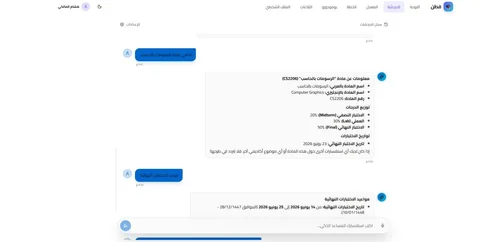
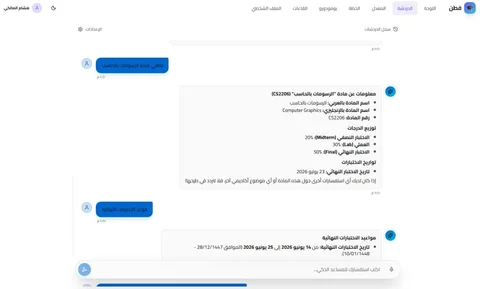
Make every picture fill its frame, without cropping content
The image pipeline now trims each screenshot's empty margins: edge rows and
columns in which every pixel is the background, keeping 6px of each, and it
prints every crop box. Old outputs are cleared first, so a new width never
leaves a stale file in the srcset.

In "Hand me a problem" each frame takes its picture's own ratio (a table or
list frame has one in the data). Side by side, the widths follow the
ratios, so a row shares one height and every picture fills its frame; one
stage at a time, a picture keeps its own ratio. The Faten pair in the case
block works the same way. Narrow list frames set closer so their items fit.

diff --git a/src/data/projects.js b/src/data/projects.js
@@ -14,8 +14,8 @@ const edemaCams = [
   { id: 'resnet50', label: 'ResNet50', probability: '100.0%' },
   { id: 'convnext-tiny', label: 'ConvNeXt-Tiny', probability: '89.5%' },
 ].map((m) => ({ ...m, image: natural(`edema-cam-${m.id}`, EDEMA_RATIO) }))
-const edemaReport = screenshot('pulmonary-edema', 1, 882 / 1589) // sidebar trimmed by the pipeline
-const edemaVotes = screenshot('pulmonary-edema', 2, 883 / 1897)
+const edemaReport = screenshot('pulmonary-edema', 1, 854 / 1514) // sidebar and empty margins trimmed by the pipeline
+const edemaVotes = screenshot('pulmonary-edema', 2, 883 / 1881)
 const edemaVotesFrame = {
   kind: 'image',
   image: edemaVotes,
@@ -25,19 +25,19 @@ const edemaVotesFrame = {
 
 const telcoOverview = {
   kind: 'image',
-  image: screenshot('telco-churn', 1, 708 / 1270),
+  image: screenshot('telco-churn', 1, 684 / 1252),
   alt: 'Power BI overview page: 26.5% churn rate, 1,869 customers lost, $139K monthly revenue lost',
   fill: '#f2f2f0',
 }
 const telcoDrivers = {
   kind: 'image',
-  image: screenshot('telco-churn', 2, 712 / 1275),
+  image: screenshot('telco-churn', 2, 694 / 1254),
   alt: 'Power BI page “What drives churn”: churn rate by contract and internet service, by payment method and contract, by number of services, and with and without tech support',
   fill: '#f2f2f0',
 }
 const telcoActions = {
   kind: 'image',
-  image: screenshot('telco-churn', 5, 711 / 1262),
+  image: screenshot('telco-churn', 5, 693 / 1253),
   fill: '#f2f2f0',
   alt: 'Power BI page “Where to act first”: lost value by contract and internet service, churners by churn-score band, 88.9% of lost value marked as actionable, lost value by payment method, and the three actions in priority order',
 }
@@ -52,7 +52,7 @@ const fatenDashboard = {
 // faten-3 and faten-4 screenshots.
 const fatenChat = {
   kind: 'image',
-  image: screenshot('faten', 3, 646 / 1280),
+  image: screenshot('faten', 3, 646 / 1072),
   alt: 'Faten’s chat in Arabic: the agent answers a question about a course with its grading breakdown and final exam dates',
   fill: '#ffffff',
 }
@@ -80,8 +80,10 @@ export const STAGES = [
 //   { kind: 'image', image: screenshot(...) | natural(...), alt, fill }
 // Images are always shown whole; `fill` is the colour of the image's own edge,
 // used wherever a frame is wider or taller than the picture.
-//   { kind: 'table', columns: [...], optional?, optionalNarrow?, optionalTiny?, rows: [[...], ...], foot }
-//   { kind: 'list', title, items: [...], foot, code?, rtl? }
+//   { kind: 'table', columns: [...], optional?, optionalNarrow?, optionalTiny?, rows: [[...], ...], foot, ratio? }
+//   { kind: 'list', title, items: [...], foot, code?, rtl?, ratio? }
+// `ratio` (width / height, default 1.5) is a table's or list's frame shape in
+// "Hand me a problem", where a picture's frame takes the picture's own.
 // `map` holds the short labels for the skill table; `plate` sets the case
 // block: `layout` 'zigzag' (each figure beside part of the details),
 // 'panel' (the `reveal` slider beside the details) or 'pair' (two figures
@@ -116,6 +118,7 @@ export const projects = [
           'Cleaned 7,043 customer records in Excel and Power Query. Three target-leakage columns (churn score, churn reason, churn label) were removed, and CLTV was tested in and out of the model and dropped.',
         frame: {
           kind: 'table',
+          ratio: 1.35, // tall enough for its five rows beside the two charts
           label: 'First rows of the customer table',
           columns: ['CustomerID', 'Tenure', 'Contract', 'Internet', 'Payment', 'Monthly', 'Churn'],
           optional: ['CustomerID', 'Payment'], // dropped when the frame is narrow, never cut
@@ -138,7 +141,7 @@ export const projects = [
           'Logistic regression with class weighting on a stratified 80/20 split: 0.849 ROC-AUC, 0.645 AUC-PR, 78% recall on churners (291 of 374) and 51% precision. Its coefficients confirmed the drivers found in the dashboard.',
         frame: {
           kind: 'image',
-          image: screenshot('telco-churn', 4, 1080 / 1920),
+          image: screenshot('telco-churn', 4, 1039 / 1887),
           alt: 'Logistic regression coefficients ranked by their effect on churn',
           fill: '#ffffff',
         },
@@ -280,6 +283,7 @@ export const projects = [
           'Student academic records stored in Firebase, the university’s regulations as searchable text, transcripts parsed from PDF, and the Hijri academic calendar.',
         frame: {
           kind: 'list',
+          ratio: 1.35, // tall enough for its items beside the map
           title: 'backend/knowledge/regulations',
           rtl: true,
           items: [
@@ -297,6 +301,7 @@ export const projects = [
           'An LLM chat agent with 24 function-calling tools that runs on the OpenAI API (Gemini is supported as an alternative provider).',
         frame: {
           kind: 'list',
+          ratio: 1.35, // tall enough for its items beside the map
           title: 'Agent tools · 24',
           code: true,
           items: [
@@ -325,8 +330,8 @@ export const projects = [
     links: [{ label: 'Repository', href: 'https://github.com/Saleh67676/Faten' }],
     map: { data: 'Records, regulations', model: 'LLM agent, 24 tools', product: 'Next.js' },
     plate: {
-      // The dashboard and the chat side by side, the same height. Both are
-      // landscape screens, so they split 6 : 6 to stay readable.
+      // The dashboard and the chat side by side, the same height; their widths
+      // follow the two pictures' ratios, so each fills its frame.
       layout: 'pair',
       figures: [
         { frame: fatenDashboard, caption: 'Faten dashboard: GPA, progress and the university calendar' },

diff --git a/src/index.css b/src/index.css
@@ -105,6 +105,8 @@ button { font: inherit; color: inherit; }
 @container (max-width: 21em) { [data-ui] .opt-narrow { display: none; } }
 @container (max-width: 17.5em) { [data-ui] .opt-tiny { display: none; } [data-ui] table { font-size: 0.75rem; } [data-ui] th, [data-ui] td { padding: 3px 5px; } }
 [data-ui] ol, [data-ui] ul { margin: 0; padding-left: 1.2em; display: grid; gap: 4px; }
+/* a narrow list frame sets closer, so its items fit the row's height */
+@container (max-width: 19em) { [data-ui].ui { padding: 12px 14px; gap: 6px; font-size: 0.8125rem; } [data-ui] ol, [data-ui] ul { gap: 2px; } }
 [data-ui] ul[dir='rtl'] { padding: 0 1.2em 0 0; font-family: var(--font-ar); }
 [data-ui] li span { color: var(--ui-muted); }
 [data-ui] code { font-family: ui-monospace, Consolas, monospace; } /* real identifiers are code */
@@ -225,13 +227,21 @@ button { font: inherit; color: inherit; }
 .pick label.on { background: var(--ac-sel-bg); color: var(--ac-sel-ink); }
 .pick input { position: absolute; inset: 0; opacity: 0; margin: 0; cursor: pointer; }
 .pick label:has(input:focus-visible) { outline: 2px solid var(--f-ac); outline-offset: 3px; }
-.chain { list-style: none; margin: 0; padding: 0; display: grid; grid-template-columns: repeat(3, minmax(0, 1fr)); gap: var(--gutter); }
-.chain .frame { aspect-ratio: 3 / 2; }
+/* Side by side, each stage's width follows its frame's ratio (--fr: the
+   picture's own, or a table's or list's), so the three share one height and
+   every picture fills its frame */
+.chain { list-style: none; margin: 0; padding: 0; display: flex; align-items: flex-start; gap: var(--gutter); }
+.chain > li { flex: var(--fr, 1.5) 1 0; min-width: 0; }
+.chain .frame { aspect-ratio: var(--fr, 1.5); }
 .chain li { container-type: inline-size; }
 /* Very narrow (or large text on a small phone): square frames give the
    data table and the lists the height they need */
-@container (max-width: 17em) { .chain li .frame { aspect-ratio: 1 / 1; } } /* beats the phone 4:3 rule */
-@container (max-width: 14em) { .chain li .frame { aspect-ratio: 4 / 5; } }
+/* one stage at a time in a small container (large text on a phone): a table or
+   list frame grows taller; side by side, the frames keep the row's one height */
+@media (max-width: 68.75em) {
+  @container (max-width: 17em) { .chain li .frame.is-ui { aspect-ratio: 1 / 1; } } /* beats the phone 4:3 rule */
+  @container (max-width: 14em) { .chain li .frame.is-ui { aspect-ratio: 4 / 5; } }
+}
 .chain-frame { position: relative; }
 /* The whole frame opens full size; a button laid over it, since tables and
    lists cannot sit inside a button */
@@ -244,7 +254,7 @@ button { font: inherit; color: inherit; }
 
 /* ---------- 4. Case blocks ---------- */
 /* The approved layouts:
-   rows of 7 : 5, 5 : 7 or 6 : 6 on one column gap, each picture whole on
+   rows of 7 : 5, 5 : 7 or 6 : 6 (the Faten pictures: by their ratios) on one column gap, each picture whole on
    its own ground (no outline), details at 16px with a label column,
    buttons last.
    Fields alternate so the boundary between projects is a change of ground. */
@@ -263,8 +273,13 @@ button { font: inherit; color: inherit; }
 .r57 > .left { grid-column: 1; grid-row: 1; }
 .pic { margin: 0; display: grid; gap: 8px; min-width: 0; }
 .pic .frame > img { height: auto; } /* natural ratio */
-.pic.fixed .frame { aspect-ratio: var(--ar); } /* a pair shares one height; each picture whole inside */
+.pic.fixed .frame { aspect-ratio: var(--ar); } /* each picture at its own ratio, filling its frame */
 .pic.fixed .frame > img { height: 100%; }
+/* a pair side by side: widths follow the two ratios, so the pictures share one height */
+@media (min-width: 47.5625em) {
+  .c-row.pair-figs { display: flex; }
+  .pair-figs > .pic { flex: var(--fr) 1 0; }
+}
 .case figcaption { font-size: var(--s-note); color: var(--lt-muted); max-width: 60ch; }
 button.open { all: unset; box-sizing: border-box; display: block; width: 100%; cursor: zoom-in; }
 button.open:focus-visible { outline: 2px solid var(--f-lt); outline-offset: 3px; }
@@ -452,7 +467,8 @@ footer { padding: 72px var(--pad-x) 24px; }
   .stage-tabs { display: grid; grid-template-columns: repeat(3, 1fr); gap: 4px; margin-bottom: 12px; }
   .stage-tabs button { min-height: 48px; border: 0; background: var(--ac-tint); color: var(--ac-ink); font-weight: 500; cursor: pointer; }
   .stage-tabs button[aria-pressed='true'] { background: var(--ac-sel-bg); color: var(--ac-sel-ink); }
-  .chain { grid-template-columns: minmax(0, 1fr); max-width: 45rem; }
+  .chain { display: block; max-width: 45rem; } /* one stage at a time: a picture keeps its own ratio */
+  .chain .frame.is-ui { aspect-ratio: 3 / 2; }
   .stage-tabs { max-width: 45rem; }
   .chain li:not(.on) { display: none; }
   .hero { min-height: auto; }
@@ -502,7 +518,7 @@ footer { padding: 72px var(--pad-x) 24px; }
   .hero-nav { grid-column: 9 / -1; gap: 4px 14px; }
   .hero-nav a:not(.keep) { display: none; }
   .hero-name .b-wrap { bottom: 18px; }
-  .chain .frame { aspect-ratio: 4 / 3; }
+  .chain .frame.is-ui { aspect-ratio: 4 / 3; }
   dl.d > div { grid-template-columns: 5.2em minmax(0, 1fr); column-gap: 12px; }
   .map { font-size: var(--s-small); border-spacing: 4px; margin: -4px; }
   .map thead th:first-child { width: 26%; }

diff --git a/src/components/Range.jsx b/src/components/Range.jsx
@@ -13,6 +13,10 @@ export default function Range() {
   const project = projects.find((p) => p.id === id)
   const label = (f) => (f.kind === 'image' ? f.alt : f.label || f.title)
   const open = (f) => (f.kind === 'image' ? show(f.image, f.alt) : show(null, label(f), <Frame frame={f} />))
+  // Each frame takes its picture's own ratio (a table or list, its `ratio`);
+  // side by side, widths follow the ratios, so the three share one height and
+  // every picture fills its frame.
+  const ratioOf = (f) => (f.kind === 'image' ? f.image.width / f.image.height : f.ratio ?? 1.5)
 
   return (
     <section className="range accent" id="range" aria-labelledby="range-h">
@@ -36,9 +40,10 @@ export default function Range() {
       </div>
       <ol className="chain" key={id} aria-label={`${project.name}: data, model and product`}>
         {STAGES.map((s, i) => (
-          <li key={s.id} style={{ '--i': i }} className={s.id === stage ? 'on' : undefined}>
+          <li key={s.id} style={{ '--i': i, '--fr': ratioOf(project.stages[s.id].frame) }} className={s.id === stage ? 'on' : undefined}>
             <div className="chain-frame">
-              <Frame frame={project.stages[s.id].frame} sizes="(max-width: 68.75em) min(calc(100vw - 2rem), 45rem), 31vw" />
+              <Frame frame={project.stages[s.id].frame} sizes="(max-width: 68.75em) min(calc(100vw - 2rem), 45rem), 40vw"
+                className={project.stages[s.id].frame.kind === 'image' ? 'is-pic' : 'is-ui'} />
               <button type="button" className="open-over" onClick={() => open(project.stages[s.id].frame)}
                 aria-label={`Open full size: ${label(project.stages[s.id].frame)}`} />
             </div>

diff --git a/src/components/CaseBlock.jsx b/src/components/CaseBlock.jsx
@@ -35,7 +35,7 @@ function Caption({ text, link }) {
 
 function Pic({ frame, caption, show, sizes, ratio, className = '' }) {
   return (
-    <figure className={`pic ${className}`} data-reveal>
+    <figure className={`pic ${className}`} data-reveal style={ratio ? { '--fr': ratio } : undefined}>
       <button type="button" className="open" onClick={() => show(frame.image, frame.alt)}
         style={ratio ? { '--ar': ratio } : undefined}>
         <Frame frame={frame} sizes={sizes} />
@@ -102,13 +102,14 @@ export default function CaseBlock({ project }) {
       </div>
     )
   } else {
-    // pair: both frames take the taller picture's ratio, so they share a height
-    const ratio = Math.min(...plate.figures.map((f) => f.frame.image.width / f.frame.image.height))
+    // pair: each frame keeps its picture's ratio and the widths follow the
+    // ratios, so the two share one height and each picture fills its frame
+    const ratioOf = (f) => f.frame.image.width / f.frame.image.height
     body = (
       <>
         {head}
-        <div className="c-row r66">
-          {plate.figures.map((f) => <Pic key={f.caption} {...f} show={show} ratio={ratio} sizes={`${wide}, 48vw`} className="fixed" />)}
+        <div className="c-row r66 pair-figs">
+          {plate.figures.map((f) => <Pic key={f.caption} {...f} show={show} ratio={ratioOf(f)} sizes={`${wide}, 52vw`} className="fixed" />)}
         </div>
         <div className="c-row r66">
           <div className="col" data-reveal><Details rows={first} /></div>

diff --git a/DESIGN.md b/DESIGN.md
@@ -27,6 +27,10 @@ One family, Bricolage Grotesque (self-hosted variable WOFF2, `font-display: swap
 
 No eyebrow labels, no monospace outside real code, no 01/02/03 numbering, no hairline dividers, no gradients, no shadows on resting elements, no pills or card grids, square corners. One approved exception: the hero's three data cards (6px corners, each titled with its project's name; the shorter side cards tilted ±2.5° on their inner bottom corners, lower than the centre card and straightening on hover and focus; the row inset 1rem so the tilt stays inside the margins; stacked, upright and lead-first below 68.75em). Real interface fragments carry `data-ui` and may use their own table rules and monospace identifiers.
 
+## Pictures in frames
+
+Every picture is shown whole and fills its frame: screenshots lose only their empty margins in the image pipeline, and a frame takes its picture's own ratio. Where frames sit side by side ("Hand me a problem", the Faten pair) their widths follow the ratios, so a row shares one height; a table or list frame has its own `ratio` in the data. A check measures that no picture leaves more than 4% of its frame empty.
+
 ## Motion
 
 Name halves rise out of a mask on load (900 ms, expo out); section parts enter in reading order (80 ms stagger, 24 px rise, once). Pictures never scale or move inside their frames, so nothing is ever cropped, even mid-animation. Transform and opacity only, except the hero cards: once on load the churn line and the agent's spokes draw in and the gauge fills (`stroke-dashoffset`), and the gauge's number reads the arc as it fills. Every final value is in the markup; the animation starts from it. `prefers-reduced-motion: reduce` removes all animation and shows everything in place; content is never hidden unless script runs (`.motion` class).

diff --git a/raw-images/README.md b/raw-images/README.md
@@ -22,6 +22,10 @@ Produces `src/assets/projects/telco-churn/{order}-{480,800,1280}w.webp` — one
 subfolder per project, up to three width tiers (480w, 800w for phones at
 2x, 1280w everything else), never enlarged: a source narrower than a tier
 stops at its own width (a 448px chart gives only `6-448w.webp`), at the
-source's natural ratio. Nothing is cropped; the site shows every screenshot
-whole. The one exception is TRIM_LEFT in the script, which cuts the app's
-sidebar from the edema report screen on purpose.
+source's natural ratio. No content is cropped; the site shows every
+screenshot whole. Each screenshot first loses its empty margins: edge rows and
+columns in which every pixel is the background colour (6px of each is kept),
+so the picture fills its frame; the script prints each crop box. The one cut
+into content is TRIM_LEFT in the script, which removes the app's sidebar from
+the edema report screen on purpose. Pass the new ratio (height / width, as
+printed) to `screenshot()` in `src/data/projects.js`.

diff --git a/README.md b/README.md
@@ -25,7 +25,7 @@ All content lives in two files; no component needs to change for ordinary edits.
 
 Drop source files into `raw-images/` and run `npm run images` (needs `npm install --no-save sharp` once; sharp is a local tool and never ships):
 
-- `raw-images/projects/{slug}-{n}-{label}.png` → `src/assets/projects/{slug}/{n}-{480,800,1280}w.webp` (natural ratio, never cropped or enlarged: a narrower source stops at its own width, e.g. `6-448w.webp`; pass the ratio to `screenshot()`)
+- `raw-images/projects/{slug}-{n}-{label}.png` → `src/assets/projects/{slug}/{n}-{480,800,1280}w.webp` (natural ratio after its empty margins are trimmed, never cropped into content or enlarged: a narrower source stops at its own width, e.g. `6-448w.webp`; pass the printed ratio to `screenshot()`)
 - `raw-images/credentials/{name}.png` → `src/assets/credentials/{name}-{480,1280}w.webp` (natural ratio)
 - `raw-images/figures/{name}.jpg` → `src/assets/figures/{name}-{480,1280}w.webp` (natural ratio)
 
